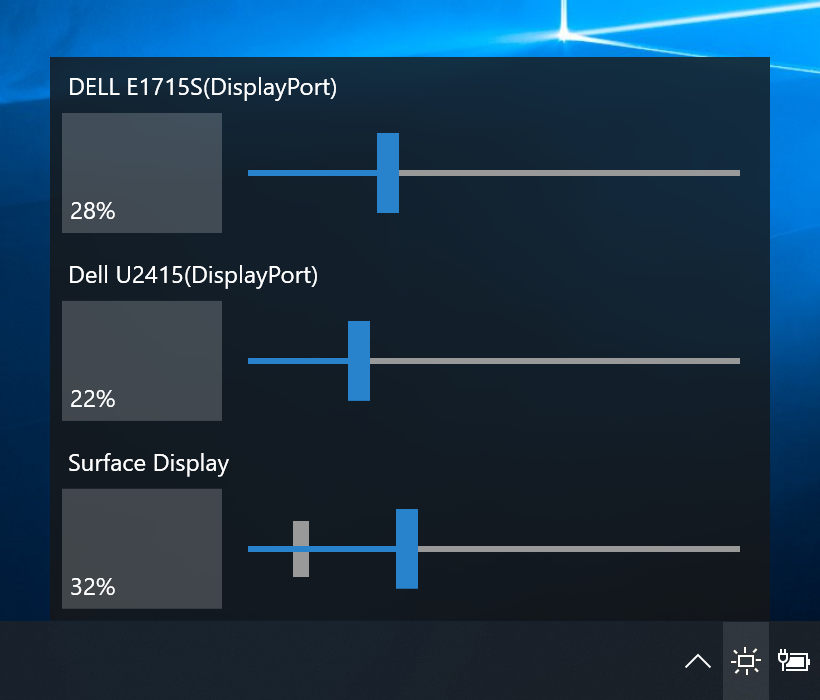
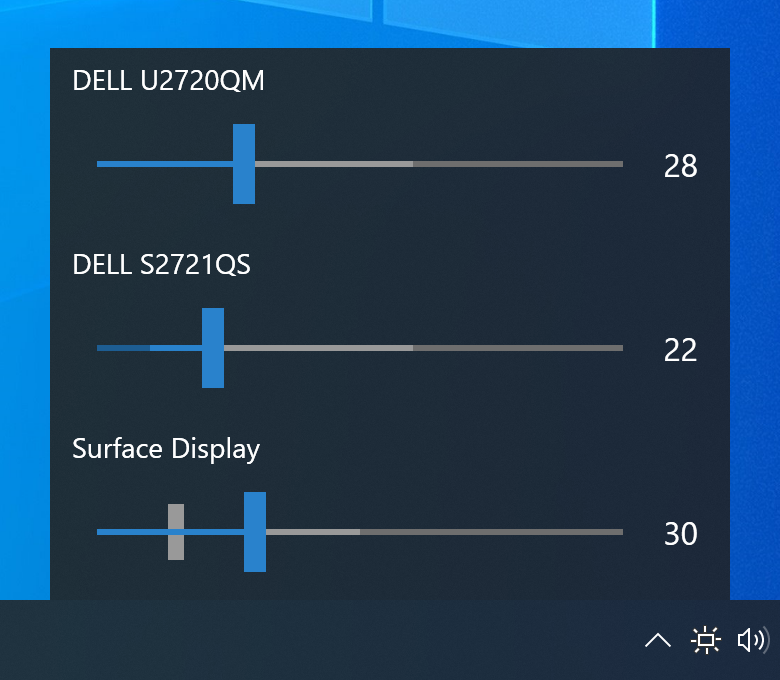
Update images and readme

diff --git a/README.md b/README.md
@@ -10,10 +10,11 @@ The user can change the brightness of monitors, including external ones, either 
 ![Screenshot](Images/Screenshot_unison.png)<br>
 (DPI: 100%)
 
-In addition, the user can change the adjustable range of brightness for each monitor seamlessly.
+In addition, the user can change the adjustable range of brightness and contrast for each monitor seamlessly.
 
 ![Screenshot](Images/Screenshot_range.png)<br>
-(DPI: 100%)
+
+![Screenshot](Images/Screenshot_contrast.png)<br>
 
 Additional languages:
 
@@ -28,7 +29,7 @@ Additional languages:
 ## Requirements
 
  * Windows 7 or newer
- * .NET Framework __4.7.2__
+ * .NET Framework __4.8__
  * An external monitor must be DDC/CI enabled.
 ![OSD](Images/Dell_ddcci.jpg)
 
@@ -38,7 +39,7 @@ Additional languages:
 [Monitorian](https://www.microsoft.com/store/apps/9nw33j738bl0) (Microsoft Store)
 
  * Other:<br>
-:floppy_disk: [Installer](https://github.com/emoacht/Monitorian/releases/download/2.19.0-Installer/MonitorianInstaller2190.zip)
+:floppy_disk: [Installer](https://github.com/emoacht/Monitorian/releases/download/3.0.0-Installer/MonitorianInstaller300.zip)
 
 ## Install/Uninstall
 
@@ -138,6 +139,10 @@ An alternative language can be shown by adding a Resources (.resx) file into `/S
 `Resources.ja-JP.resx` (for Japanese) would be a good example for this purpose.
 
 ## History
+
+Ver 3.0 2021-7-1
+
+- Change UI
 
 Ver 2.19 2021-6-16
 
